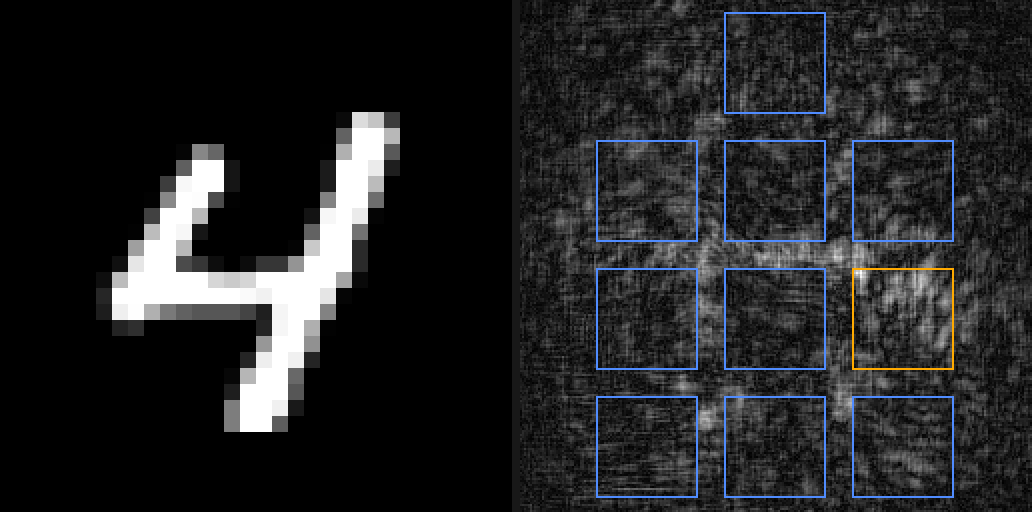
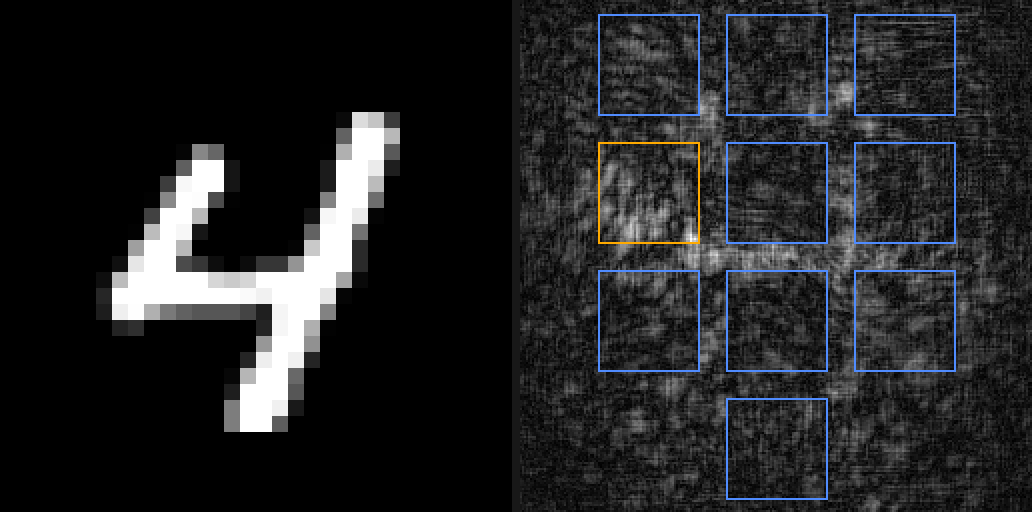
Show MNIST's readout as the camera sees it (its relay turns the picture 180°); link NeuralCrystal.com

Changed region(s): [[0.4961, 0.0, 1.0, 1.0]]

diff --git a/neuralcrystal/pictures.py b/neuralcrystal/pictures.py
@@ -20,9 +20,11 @@ def frame(f, scale=4):
     return np.kron(_rgb(a), np.ones((scale, scale, 1), dtype=np.uint8))
 
 
-def exit_light(crystal, E, i=0, gamma=0.5, boxes=True, highlight=None, size=512):
+def exit_light(crystal, E, i=0, gamma=0.5, boxes=True, highlight=None, size=512, as_camera=True):
     """|E|² of sample i over the crystal's window, brightness ^gamma so faint light shows, resized to size × size.
-    boxes: outline the readout squares (classifiers); highlight: a square index drawn in colour (the answer)."""
+    boxes: outline the readout squares (classifiers); highlight: a square index drawn in colour (the answer).
+    as_camera: when the crystal's output relay turns the picture 180° on its way to the camera (MNIST's does), show it as the
+    camera sees it, upright, rather than as it leaves the glass."""
     I = (E[i].real ** 2 + E[i].imag ** 2).detach().cpu().double().numpy()
     N = crystal.N; w = max(1, int(round(N * crystal.win_frac))); x0 = (N - w) // 2
     win = I[x0:x0 + w, x0:x0 + w]; win = (win / max(win.max(), 1e-30)) ** gamma
@@ -35,6 +37,7 @@ def exit_light(crystal, E, i=0, gamma=0.5, boxes=True, highlight=None, size=512)
             x, y = bx - x0, by - x0                                           # the window is centred, so rows and columns share the offset
             img[max(0, y):y + bh, max(0, x):max(0, x) + 1] = col; img[max(0, y):y + bh, x + bw - 1:x + bw] = col
             img[max(0, y):max(0, y) + 1, max(0, x):x + bw] = col; img[y + bh - 1:y + bh, max(0, x):x + bw] = col
+    if as_camera and crystal.sensor_turned: img = img[::-1, ::-1].copy()
     if size and size != w:
         idx = (np.arange(size) * w / size).astype(int); img = img[idx][:, idx]
     return img

diff --git a/neuralcrystal/crystal.py b/neuralcrystal/crystal.py
@@ -300,6 +300,11 @@ class Crystal:
         I = E.real * E.real + E.imag * E.imag; side, x0 = self.so, self.xo
         R = self.readout_map(side, F)
         return torch.einsum("sf,bst,tg->bfg", R, I[:, x0:x0 + side, x0:x0 + side], R)
+    @property
+    def sensor_turned(self):
+        """True when an output relay images the exit face onto the camera turned 180° (the camera sees the exit face upside down)."""
+        sen = self.img.get("sen", "ideal")
+        return (isinstance(sen, (int, float)) and not isinstance(sen, bool)) or sen in ("mirror1", "mirror2")
     def readout_map(self, side, F):                                            # sample columns → sensor columns, with weights
         sen = self.img.get("sen", "ideal"); P = 0.0
         if sen == "bonded": P = self.sens_pitch / self.dx

diff --git a/README.md b/README.md
@@ -4,7 +4,7 @@ Run a trained **NeuralCrystal** in PyTorch: a block of glass with stacked phase 
 
 A NeuralCrystal is a passive optical computer. A micromirror array (DMD) writes the input as a picture of light at 617 nm. The light diffracts through a stack of etched phase surfaces inside fused silica, and a camera reads the answer from where the light lands. The four-pass crystals (CIFAR-10, checkers and chess) send the light through four sections of the same block: between passes, the camera's picture is written back onto the DMD. This package simulates that light path exactly as the crystals were trained, so you can send in your own images and read the answers out.
 
-NeuralCrystal was created by Pete DeLaurentis as a demo of [Shellcaster](https://shellcaster.com), an IDE for building complex projects with agents.
+[NeuralCrystal](https://neuralcrystal.com) was created by Pete DeLaurentis as a demo of [Shellcaster](https://shellcaster.com), an IDE for building complex projects with agents.
 
 ## Install
 
